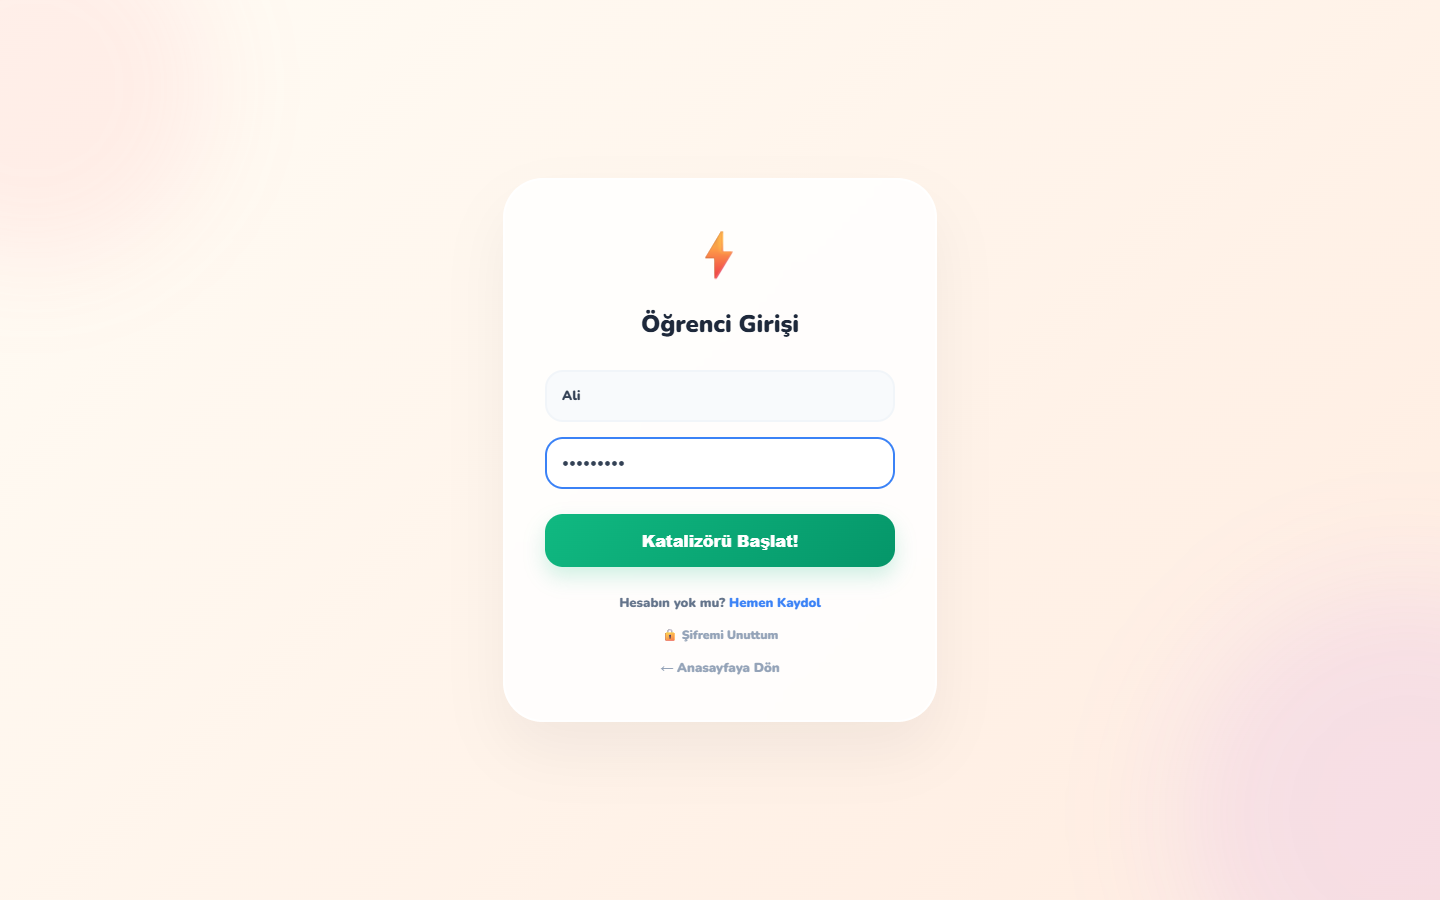
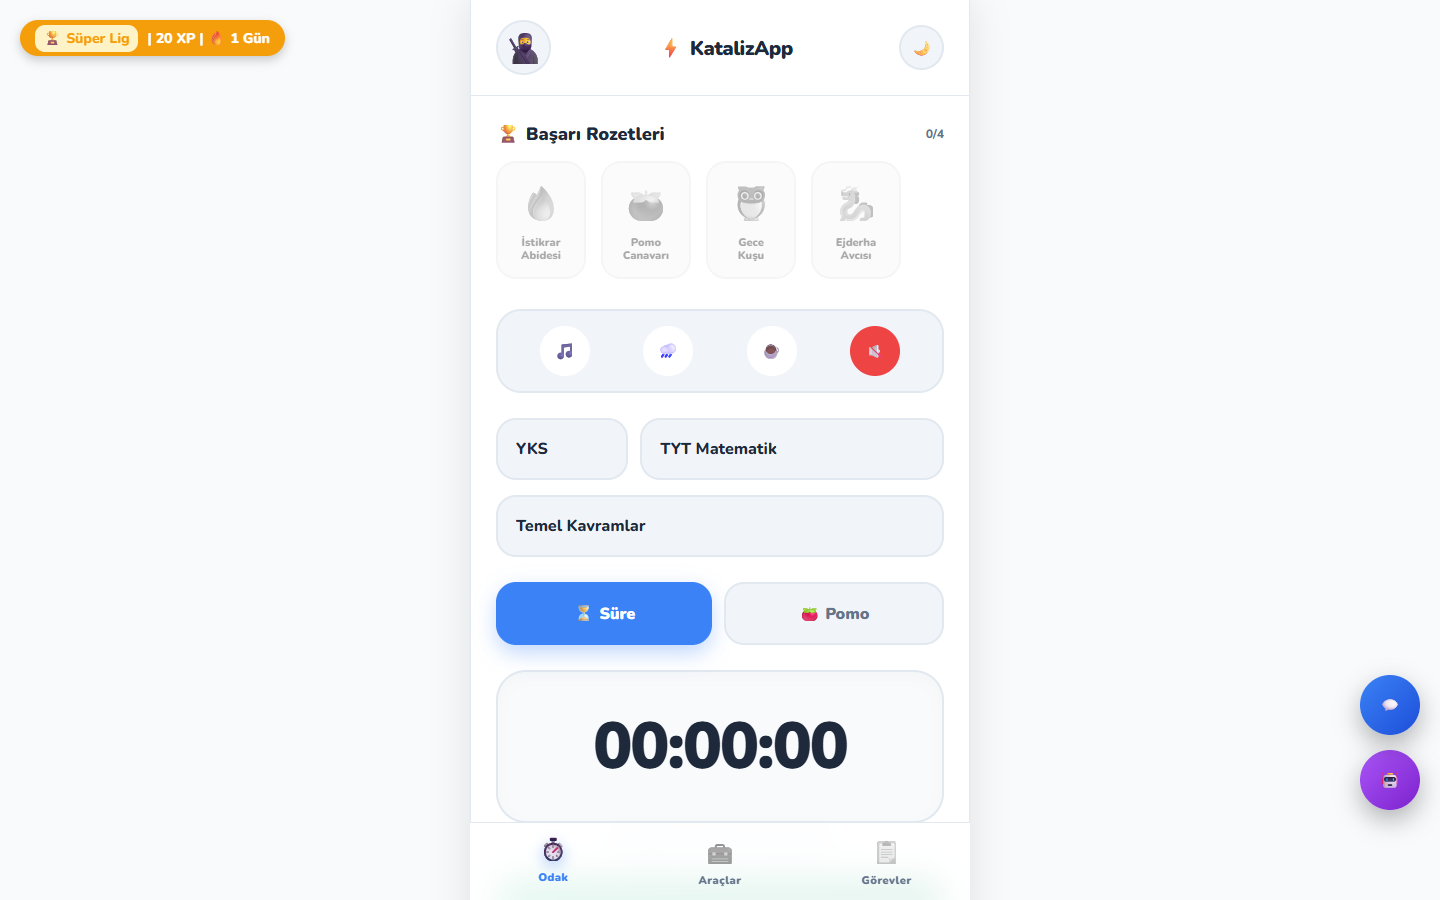
fix: updated CSP for CDNs and media, updated actual dashboard screenshots

diff --git a/server.js b/server.js
@@ -17,11 +17,12 @@ app.use(helmet({
     contentSecurityPolicy: {
         directives: {
             defaultSrc: ["'self'"],
-            scriptSrc: ["'self'", "'unsafe-inline'", "https://cdn.socket.io"],
+            scriptSrc: ["'self'", "'unsafe-inline'", "https://cdn.socket.io", "https://cdn.jsdelivr.net", "https://cdnjs.cloudflare.com"],
             scriptSrcAttr: ["'unsafe-inline'"],
-            styleSrc: ["'self'", "'unsafe-inline'", "https://fonts.googleapis.com"],
+            styleSrc: ["'self'", "'unsafe-inline'", "https://fonts.googleapis.com", "https://cdnjs.cloudflare.com"],
             fontSrc: ["'self'", "https://fonts.gstatic.com"],
             imgSrc: ["'self'", "data:", "https://cdn-icons-png.flaticon.com", "https://*"],
+            mediaSrc: ["'self'", "https://assets.mixkit.co"],
             connectSrc: ["'self'", "wss:", "ws:"]
         }
     }
